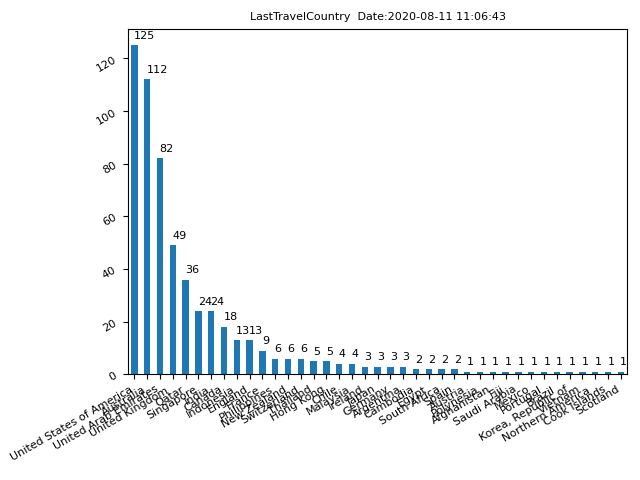
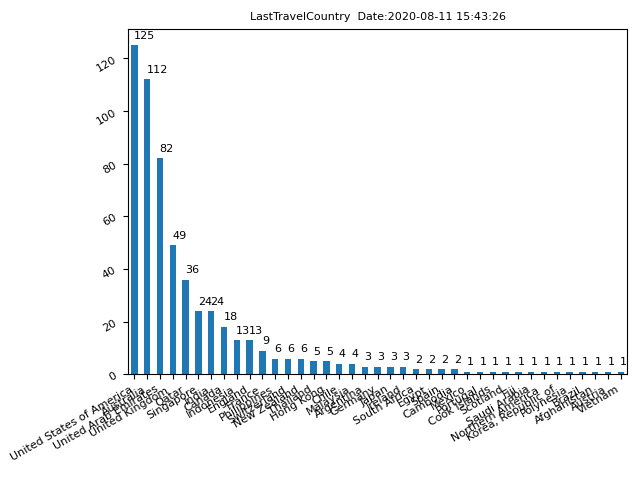
update

Changed region(s): [[0.5, 0.7812, 0.9688, 0.9375], [0.3438, 0.8125, 0.4688, 0.9062], [0.7188, 0.0312, 0.7812, 0.0625]]

diff --git a/coronavirus/mainNZ.py b/coronavirus/mainNZ.py
@@ -96,7 +96,7 @@ def parseConfirmed(df):
     DHB = list(set(df['DHB']))
     bOverseas = list(set(df['Overseas travel']))
     bOverseas.remove(' ')
-    LastTravelCountry = list(set(df['Last country before return']))
+    LastTravelCountry = list(set(df['Last location before return']))
     LastTravelCountry.remove(np.nan)
     
     print('Sex=',Sex)
@@ -137,7 +137,7 @@ def parseConfirmed(df):
     columns=['RecturnCountry','Number']
     dfLastTravelCountry  = pd.DataFrame()
     for i in LastTravelCountry:
-        line = pd.DataFrame([[i, df[df['Last country before return']==i].shape[0]]],columns=columns)
+        line = pd.DataFrame([[i, df[df['Last location before return']==i].shape[0]]],columns=columns)
         dfLastTravelCountry = dfLastTravelCountry.append(line, ignore_index=True) 
     dfLastTravelCountry.set_index(["RecturnCountry"], inplace=True)
     
@@ -219,6 +219,7 @@ def plotNZDataChange(df):
 def getNZCovid19():
     #file=r'.\NZ\covid-cases-24july20.xlsx'
     file = getDataFileFromWeb()
+    print(file)
     dfConfirmed = readExcel(file,'Confirmed') #'Probable'
     #dfConfirmed = readExcel(file, ['Confirmed','Probable'])
     parseConfirmed(dfConfirmed)
